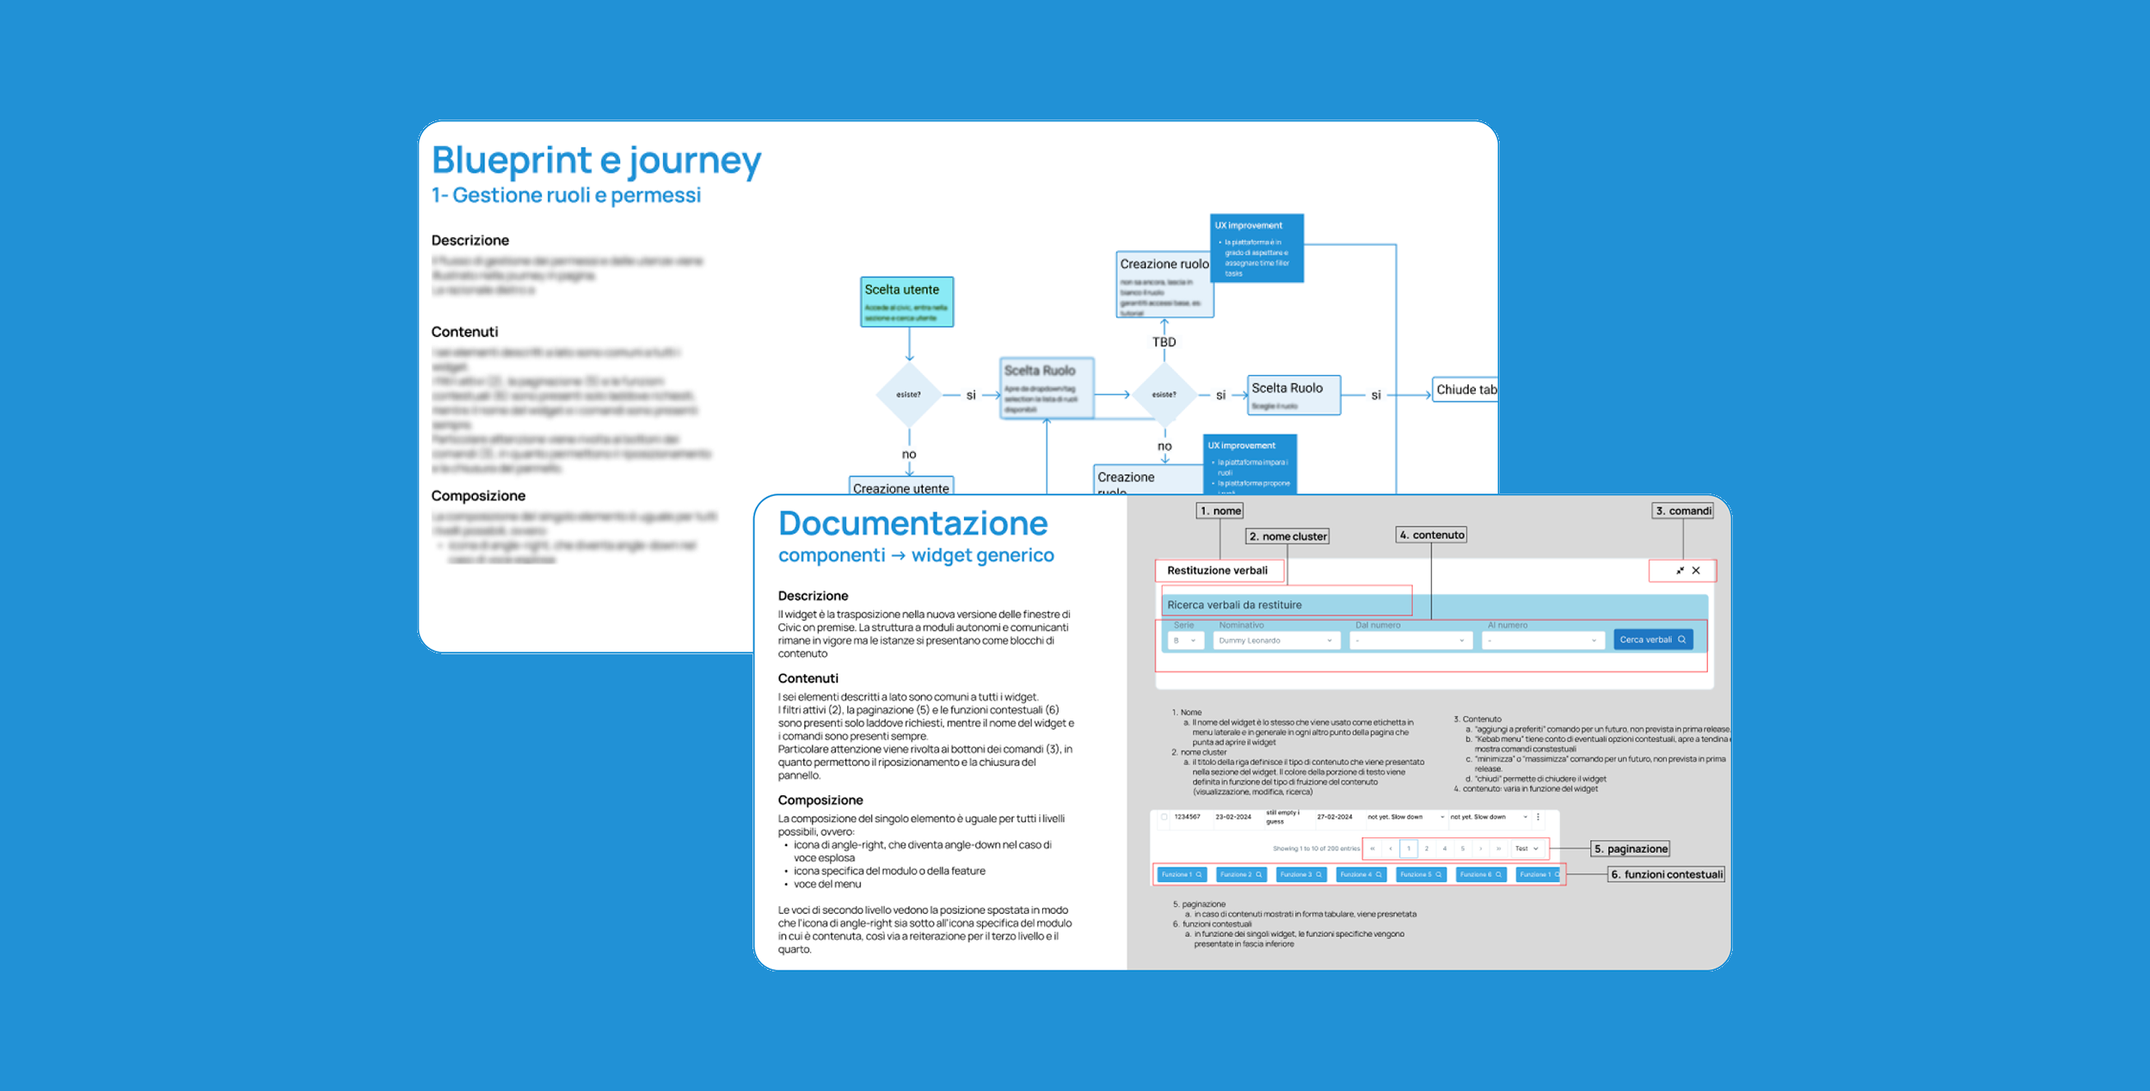
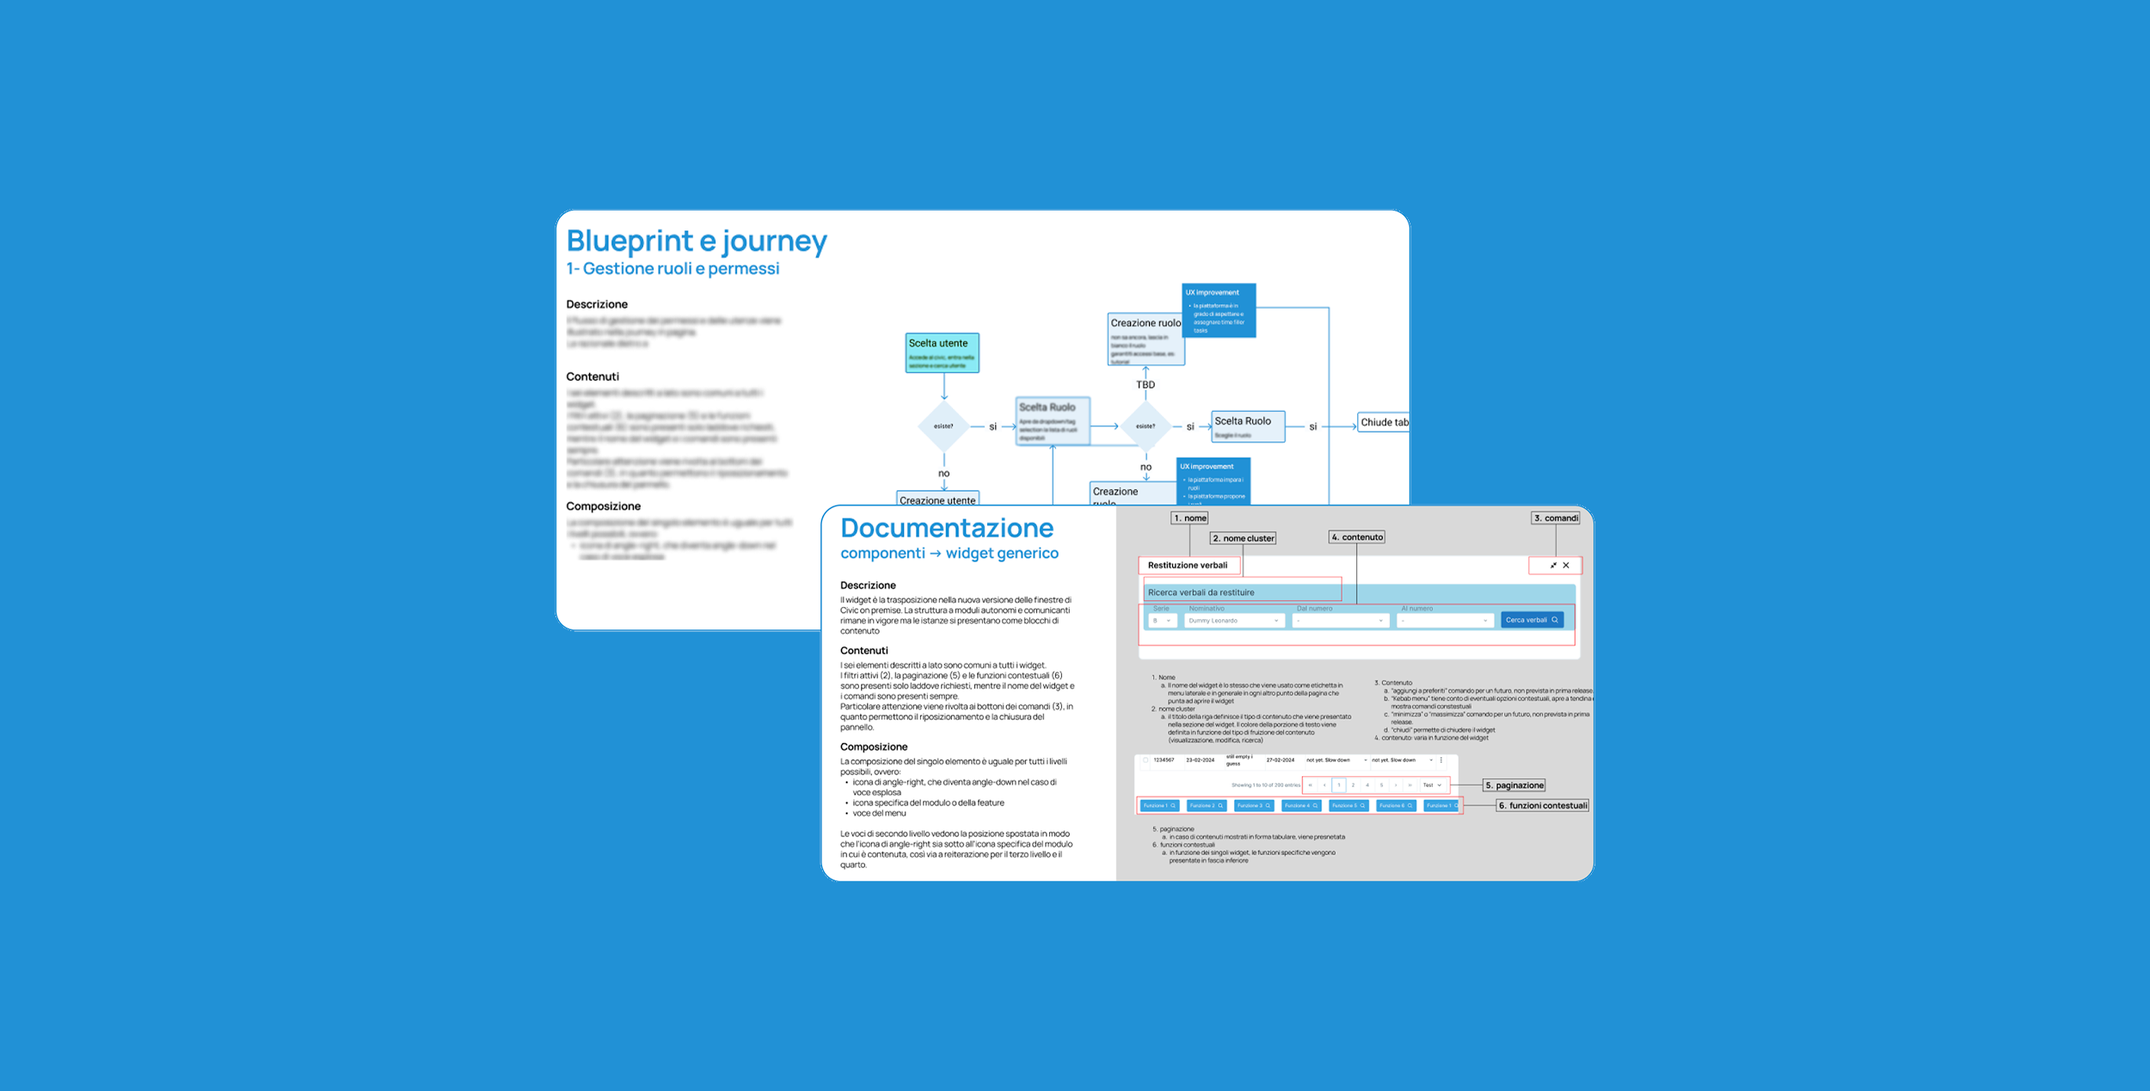
test

Changed region(s): [[0.1872, 0.0922, 0.8112, 0.8913]]

diff --git a/projects/civic.html b/projects/civic.html
@@ -12,6 +12,7 @@
   <meta name="viewport" content="width=device-width, initial-scale=1">
   <title>Civic — Giorgio Messina</title>
   <meta name="description" content="Civic — end-to-end product redesign for Compunet. Product Design by Giorgio Messina.">
+  <link rel="icon" type="image/png" href="../assets/imgs/favicon.png">
   <link rel="stylesheet" href="../styles.css">
   <link rel="stylesheet" href="../site.css">
 </head>
@@ -105,10 +106,10 @@
     </section>
 
     <figure class="ds-figure" data-reveal>
-      <div class="ds-figure__media"><div class="ds-ph"></div><img class="ds-img" src="../assets/imgs/gm-civic-2.png" alt="Blueprint, journey and component documentation" loading="lazy" onerror="this.style.display='none'"><span class="ds-ph__label">Blueprint, journey &amp; component documentation</span></div>
+      <div class="ds-figure__media"><div class="ds-ph"></div><img class="ds-img" src="../assets/imgs/gm-civic-2.png" alt="Service blueprint, user journey and component documentation" loading="lazy" onerror="this.style.display='none'"><span class="ds-ph__label">Blueprint, journey &amp; documentation</span></div>
       <figcaption>
-        <span data-lang="en">Diagram and data model for a specific journey (role assignment), UX-improvement mapping, and the documentation written for the modular widget components.</span>
-        <span data-lang="it" hidden>Diagramma e modello dati per un journey specifico (assegnazione dei ruoli), mappatura dei miglioramenti UX e la documentazione scritta per i componenti widget modulari.</span>
+        <span data-lang="en">Service blueprint, user journey and component documentation.</span>
+        <span data-lang="it" hidden>Service blueprint, user journey e documentazione dei componenti.</span>
       </figcaption>
     </figure>
 
@@ -136,10 +137,10 @@
     </section>
 
     <figure class="ds-figure" data-reveal>
-      <div class="ds-figure__media"><div class="ds-ph"></div><img class="ds-img" src="../assets/imgs/gm-civic-3.png" alt="Modular building blocks, widget components and restructured menu" loading="lazy" onerror="this.style.display='none'"><span class="ds-ph__label">Modular building blocks &amp; restructured menu</span></div>
+      <div class="ds-figure__media"><div class="ds-ph"></div><img class="ds-img" src="../assets/imgs/gm-civic-3.png" alt="Modular UI components and navigation structure" loading="lazy" onerror="this.style.display='none'"><span class="ds-ph__label">Modular components &amp; navigation</span></div>
       <figcaption>
-        <span data-lang="en">The modular building-block system: reusable widget components, profile and access-screen personalization, and the restructured menu and information architecture.</span>
-        <span data-lang="it" hidden>Il sistema modulare a building block: componenti widget riutilizzabili, personalizzazione del profilo e della schermata di accesso, e il menu e l'architettura informativa ristrutturati.</span>
+        <span data-lang="en">Modular UI components and navigation structure.</span>
+        <span data-lang="it" hidden>Componenti UI modulari e struttura di navigazione.</span>
       </figcaption>
     </figure>
 

diff --git a/index.html b/index.html
@@ -12,6 +12,7 @@
   <meta name="viewport" content="width=device-width, initial-scale=1">
   <title>Giorgio Messina — Product Designer</title>
   <meta name="description" content="Giorgio Messina — Product Designer working on data-intensive B2B products. Selected work for Compunet, Siemens, VMLYR and Connexia.">
+  <link rel="icon" type="image/png" href="assets/imgs/favicon.png">
   <link rel="stylesheet" href="styles.css">
   <link rel="stylesheet" href="site.css">
 </head>
@@ -78,8 +79,8 @@
           <span class="ds-eyebrow"><span class="ds-eyebrow__idx">02</span> <span data-lang="en">Projects</span><span data-lang="it" hidden>Progetti</span></span>
           <h2 class="ds-section-title"><span data-lang="en">Selected work.</span><span data-lang="it" hidden>Lavori selezionati.</span></h2>
           <p class="ds-section-sub">
-            <span data-lang="en">A few selected projects — each opens into a full case study. See the rest on the all-work page, or download my <a class="link-text" href="assets/Giorgio_Messina-Onepage-ENG.pdf" download>CV</a> or <a class="link-text" href="assets/Giorgio_Messina-Portfolio-ENG.pdf" download>portfolio</a>.</span>
-            <span data-lang="it" hidden>Alcuni progetti selezionati — ognuno apre un caso studio completo. Gli altri sono nella pagina con tutti i lavori, oppure scarica il mio <a class="link-text" href="assets/Giorgio_Messina-Onepage-ITA.pdf" download>CV</a> o il <a class="link-text" href="assets/Giorgio_Messina-Portfolio-ITA.pdf" download>portfolio</a>.</span>
+            <span data-lang="en">Scroll through my projects — each one opens into a full case study. See them all on a single page, or download my <a class="link-text" href="assets/Giorgio_Messina-Onepage-ENG.pdf" download>CV</a> or <a class="link-text" href="assets/Giorgio_Messina-Portfolio-ENG.pdf" download>portfolio</a>.</span>
+            <span data-lang="it" hidden>Scorri i miei progetti — ognuno apre un caso studio completo. Vedili tutti in un'unica pagina, oppure scarica il mio <a class="link-text" href="assets/Giorgio_Messina-Onepage-ITA.pdf" download>CV</a> o il <a class="link-text" href="assets/Giorgio_Messina-Portfolio-ITA.pdf" download>portfolio</a>.</span>
           </p>
         </div>
 
@@ -146,7 +147,7 @@
           </a>
 
           <a class="ds-card" href="projects/experis.html" data-reveal data-delay="1">
-            <div class="ds-card__thumb"><div class="ds-ph"></div><span class="ds-ph__label">Experis</span></div>
+            <div class="ds-card__thumb"><div class="ds-ph"></div><img class="ds-img ds-img--contain" src="assets/imgs/experis-logo.png" alt="Experis — ManpowerGroup" loading="lazy" onerror="this.style.display='none'"><span class="ds-ph__label">Experis</span></div>
             <span class="ds-card__num">06 / Manpower Experis</span>
             <h3 class="ds-card__title">Experis</h3>
             <div class="ds-card__tags"><span class="ds-tag">Product Design</span><span class="ds-tag">Product Ownership</span></div>

diff --git a/projects/building-x.html b/projects/building-x.html
@@ -12,6 +12,7 @@
   <meta name="viewport" content="width=device-width, initial-scale=1">
   <title>Building X — Giorgio Messina</title>
   <meta name="description" content="Building X onboarding research for Siemens. UX Research by Giorgio Messina.">
+  <link rel="icon" type="image/png" href="../assets/imgs/favicon.png">
   <link rel="stylesheet" href="../styles.css">
   <link rel="stylesheet" href="../site.css">
 </head>
@@ -101,10 +102,10 @@
     </section>
 
     <figure class="ds-figure" data-reveal>
-      <div class="ds-figure__media"><div class="ds-ph"></div><img class="ds-img" src="../assets/imgs/gm-buildingx-journey.png" alt="Building X onboarding journey map (as-is)" loading="lazy" onerror="this.style.display='none'"><span class="ds-ph__label">Building X onboarding — journey map (as-is)</span></div>
+      <div class="ds-figure__media"><div class="ds-ph"></div><img class="ds-img" src="../assets/imgs/gm-buildingx-journey.png" alt="End-to-end onboarding journey map" loading="lazy" onerror="this.style.display='none'"><span class="ds-ph__label">Onboarding journey map</span></div>
       <figcaption>
-        <span data-lang="en">Various templates extracted from the report I presented to different stakeholders, including a concise executive summary, and the blueprint map of the whole onboarding process.</span>
-        <span data-lang="it" hidden>Diversi template estratti dal report presentato ai vari stakeholder, incluso un executive summary conciso e la mappa blueprint dell'intero processo di onboarding.</span>
+        <span data-lang="en">End-to-end onboarding journey map.</span>
+        <span data-lang="it" hidden>Mappa del journey di onboarding end-to-end.</span>
       </figcaption>
     </figure>
 
@@ -117,6 +118,14 @@
         </p>
       </div>
     </section>
+
+    <figure class="ds-figure" data-reveal>
+      <div class="ds-figure__media"><div class="ds-ph"></div><img class="ds-img" src="../assets/imgs/gm-bx-research.png" alt="UX-research slides with journey analysis and opportunities" loading="lazy" onerror="this.style.display='none'"><span class="ds-ph__label">UX-research slides</span></div>
+      <figcaption>
+        <span data-lang="en">UX-research slides: journey analysis and opportunity prioritization.</span>
+        <span data-lang="it" hidden>Slide di ricerca UX: analisi del journey e prioritizzazione delle opportunità.</span>
+      </figcaption>
+    </figure>
 
     <section class="ds-proj-section" data-reveal>
       <h2><span class="s-idx">06</span> <span data-lang="en">Key learnings</span><span data-lang="it" hidden>Lezioni chiave</span></h2>

diff --git a/projects/energy-manager.html b/projects/energy-manager.html
@@ -12,6 +12,7 @@
   <meta name="viewport" content="width=device-width, initial-scale=1">
   <title>Energy Manager — Giorgio Messina</title>
   <meta name="description" content="Energy Manager — UX design for Siemens Building X. By Giorgio Messina.">
+  <link rel="icon" type="image/png" href="../assets/imgs/favicon.png">
   <link rel="stylesheet" href="../styles.css">
   <link rel="stylesheet" href="../site.css">
 </head>
@@ -89,10 +90,10 @@
     </section>
 
     <figure class="ds-figure" data-reveal>
-      <div class="ds-figure__media"><div class="ds-ph"></div><img class="ds-img" src="../assets/imgs/gm-energy-2.png" alt="Filterable dashboards, charts and component set" loading="lazy" onerror="this.style.display='none'"><span class="ds-ph__label">Filterable dashboards, charts &amp; component set</span></div>
+      <div class="ds-figure__media"><div class="ds-ph"></div><img class="ds-img" src="../assets/imgs/gm-energy-2.png" alt="Dashboard interface with filters, charts and components" loading="lazy" onerror="this.style.display='none'"><span class="ds-ph__label">Dashboard, filters &amp; components</span></div>
       <figcaption>
-        <span data-lang="en">Some publicly available screens of components I worked on specifically.</span>
-        <span data-lang="it" hidden>Alcune schermate pubblicamente disponibili dei componenti su cui ho lavorato in modo specifico.</span>
+        <span data-lang="en">Dashboard interface with filters, charts and reusable components.</span>
+        <span data-lang="it" hidden>Interfaccia dashboard con filtri, grafici e componenti riutilizzabili.</span>
       </figcaption>
     </figure>
 
@@ -120,6 +121,14 @@
         </ul>
       </div>
     </section>
+
+    <figure class="ds-figure" data-reveal>
+      <div class="ds-figure__media"><div class="ds-ph"></div><img class="ds-img" src="../assets/imgs/gm-bx-iso.png" alt="Platform overview illustration" loading="lazy" onerror="this.style.display='none'"><span class="ds-ph__label">Platform overview</span></div>
+      <figcaption>
+        <span data-lang="en">Platform overview illustration.</span>
+        <span data-lang="it" hidden>Illustrazione d'insieme della piattaforma.</span>
+      </figcaption>
+    </figure>
 
     <nav class="ds-next">
       <span class="ds-next__label"><span data-lang="en">Next project</span><span data-lang="it" hidden>Prossimo progetto</span></span>

diff --git a/projects/vmlyr.html b/projects/vmlyr.html
@@ -12,6 +12,7 @@
   <meta name="viewport" content="width=device-width, initial-scale=1">
   <title>VMLYR — Giorgio Messina</title>
   <meta name="description" content="VMLYR — product & service design across the agency's client portfolio. By Giorgio Messina.">
+  <link rel="icon" type="image/png" href="../assets/imgs/favicon.png">
   <link rel="stylesheet" href="../styles.css">
   <link rel="stylesheet" href="../site.css">
 </head>
@@ -127,10 +128,18 @@
     </section>
 
     <figure class="ds-figure" data-reveal>
-      <div class="ds-figure__media"><div class="ds-ph"></div><img class="ds-img" src="../assets/imgs/gm-lavazza.png" alt="Lavazza e-commerce checkout and payment flow" loading="lazy" onerror="this.style.display='none'"><span class="ds-ph__label">Lavazza — checkout &amp; payment flow</span></div>
+      <div class="ds-figure__media"><div class="ds-ph"></div><img class="ds-img" src="../assets/imgs/gm-lavazza.png" alt="E-commerce checkout and payment flow" loading="lazy" onerror="this.style.display='none'"><span class="ds-ph__label">Checkout &amp; payment flow</span></div>
       <figcaption>
-        <span data-lang="en">Lavazza Global e-commerce: the checkout and payment flow, mapping the bank-token step and both the authorized and failed-payment scenarios.</span>
-        <span data-lang="it" hidden>E-commerce Lavazza Global: il flusso di checkout e pagamento, con la mappatura dello step del token bancario e degli scenari di pagamento autorizzato e non andato a buon fine.</span>
+        <span data-lang="en">E-commerce checkout and payment flow.</span>
+        <span data-lang="it" hidden>Flusso di checkout e pagamento di un e-commerce.</span>
+      </figcaption>
+    </figure>
+
+    <figure class="ds-figure" data-reveal>
+      <div class="ds-figure__media"><div class="ds-ph"></div><img class="ds-img" src="../assets/imgs/gm-flusso.png" alt="Service flow diagram" loading="lazy" onerror="this.style.display='none'"><span class="ds-ph__label">Service flow diagram</span></div>
+      <figcaption>
+        <span data-lang="en">Service flow diagram of a subscription-management journey.</span>
+        <span data-lang="it" hidden>Diagramma di flusso di un journey di gestione abbonamento.</span>
       </figcaption>
     </figure>
 

diff --git a/projects/connexia.html b/projects/connexia.html
@@ -12,6 +12,7 @@
   <meta name="viewport" content="width=device-width, initial-scale=1">
   <title>Connexia — Giorgio Messina</title>
   <meta name="description" content="Connexia — product design and innovation consulting. By Giorgio Messina.">
+  <link rel="icon" type="image/png" href="../assets/imgs/favicon.png">
   <link rel="stylesheet" href="../styles.css">
   <link rel="stylesheet" href="../site.css">
 </head>
@@ -45,8 +46,8 @@
       <span data-lang="it" hidden>Product design e consulenza d'innovazione — portare tecnologie emergenti e non convenzionali nei prodotti digitali e nelle campagne dei clienti.</span>
     </p>
 
-    <div class="proj__hero" data-reveal data-delay="2"><div class="ds-ph"></div><img class="ds-img" src="../assets/imgs/gm-fastweb.png" alt="Fastweb omni-channel customer-service experience map" loading="lazy" onerror="this.style.display='none'"><span class="ds-ph__label">Fastweb — omni-channel experience map</span></div>
-    <p class="proj__cap" data-reveal data-delay="2"><span data-lang="en">The Fastweb omni-channel customer-service experience map — part of the business-design framework used to shape service strategies with clients.</span><span data-lang="it" hidden>L'experience map omnichannel del customer service di Fastweb — parte del framework di business design usato per definire le strategie di servizio con i clienti.</span></p>
+    <div class="proj__hero" data-reveal data-delay="2"><div class="ds-ph"></div><img class="ds-img" src="../assets/imgs/gm-fastweb.png" alt="Omni-channel service experience map" loading="lazy" onerror="this.style.display='none'"><span class="ds-ph__label">Experience map</span></div>
+    <p class="proj__cap" data-reveal data-delay="2"><span data-lang="en">Omni-channel service experience map.</span><span data-lang="it" hidden>Experience map di servizio omnichannel.</span></p>
 
     <dl class="ds-meta">
       <div><dt><span data-lang="en">Role</span><span data-lang="it" hidden>Ruolo</span></dt><dd><span data-lang="en">Product Designer &amp; Innovation Consultant</span><span data-lang="it" hidden>Product Designer &amp; Innovation Consultant</span></dd></div>

diff --git a/work.html b/work.html
@@ -12,6 +12,7 @@
   <meta name="viewport" content="width=device-width, initial-scale=1">
   <title>All Work — Giorgio Messina</title>
   <meta name="description" content="All projects by Giorgio Messina — Product Designer working on data-intensive B2B products.">
+  <link rel="icon" type="image/png" href="assets/imgs/favicon.png">
   <link rel="stylesheet" href="styles.css">
   <link rel="stylesheet" href="site.css">
 </head>
@@ -51,7 +52,7 @@
 
       <a class="ds-card" href="projects/civic.html" data-reveal>
         <div class="ds-card__thumb"><div class="ds-ph"></div><img class="ds-img" src="assets/imgs/gm-civic-1.png" alt="Civic — platform" loading="lazy" onerror="this.style.display='none'"><span class="ds-ph__label">Civic</span></div>
-        <span class="ds-card__num">01 / 2024–</span>
+        <span class="ds-card__num">01 / Compunet</span>
         <h3 class="ds-card__title">Civic</h3>
         <div class="ds-card__tags"><span class="ds-tag">Product Design</span><span class="ds-tag">Compunet</span></div>
         <p class="ds-card__desc">
@@ -110,7 +111,7 @@
       </a>
 
       <a class="ds-card" href="projects/experis.html" data-reveal data-delay="2">
-        <div class="ds-card__thumb"><div class="ds-ph"></div><span class="ds-ph__label">Experis</span></div>
+        <div class="ds-card__thumb"><div class="ds-ph"></div><img class="ds-img ds-img--contain" src="assets/imgs/experis-logo.png" alt="Experis — ManpowerGroup" loading="lazy" onerror="this.style.display='none'"><span class="ds-ph__label">Experis</span></div>
         <span class="ds-card__num">06 / Manpower Experis</span>
         <h3 class="ds-card__title">Experis</h3>
         <div class="ds-card__tags"><span class="ds-tag">Product Design</span><span class="ds-tag">Product Ownership</span></div>

diff --git a/projects/experis.html b/projects/experis.html
@@ -12,6 +12,7 @@
   <meta name="viewport" content="width=device-width, initial-scale=1">
   <title>Experis — Giorgio Messina</title>
   <meta name="description" content="Experis — product design and product ownership on internal products. By Giorgio Messina.">
+  <link rel="icon" type="image/png" href="../assets/imgs/favicon.png">
   <link rel="stylesheet" href="../styles.css">
   <link rel="stylesheet" href="../site.css">
 </head>
@@ -44,6 +45,8 @@
       <span data-lang="en">Product design and product ownership on the company's internal products — built by a team of consultants between client engagements.</span>
       <span data-lang="it" hidden>Product design e product ownership sui prodotti interni dell'azienda — sviluppati da un team di consulenti tra un progetto cliente e l'altro.</span>
     </p>
+
+    <div class="proj__hero" data-reveal data-delay="2"><div class="ds-ph"></div><img class="ds-img ds-img--contain" src="../assets/imgs/experis-logo.png" alt="Experis — ManpowerGroup" loading="lazy" onerror="this.style.display='none'"><span class="ds-ph__label">Experis</span></div>
 
     <dl class="ds-meta">
       <div><dt><span data-lang="en">Role</span><span data-lang="it" hidden>Ruolo</span></dt><dd><span data-lang="en">Product Designer &amp; Product Owner</span><span data-lang="it" hidden>Product Designer &amp; Product Owner</span></dd></div>

diff --git a/Design System.html b/Design System.html
@@ -10,6 +10,7 @@
 <link href="https://fonts.googleapis.com/css2?family=Inter:wght@300;400;500;600&family=Inter+Tight:wght@400;500;600&display=swap" rel="stylesheet">
 
 <!-- The design system itself — the only file you edit to change anything -->
+<link rel="icon" type="image/png" href="assets/imgs/favicon.png">
 <link rel="stylesheet" href="styles.css">
 
 <!-- Page chrome (documentation scaffolding only — NOT part of the system) -->

diff --git a/site.css b/site.css
@@ -45,6 +45,8 @@ img { max-width: 100%; display: block; }
   display: block;
   z-index: 1;
 }
+/* Logos on transparent backgrounds: fit inside with padding on a clean ground */
+.ds-img--contain { object-fit: contain; background: #fff; padding: clamp(20px, 6%, 64px); }
 
 ::selection { background: color-mix(in srgb, var(--accent) 22%, transparent); }
 
